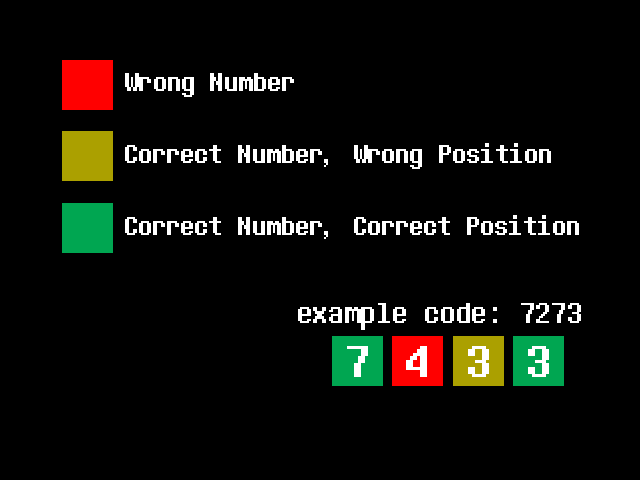
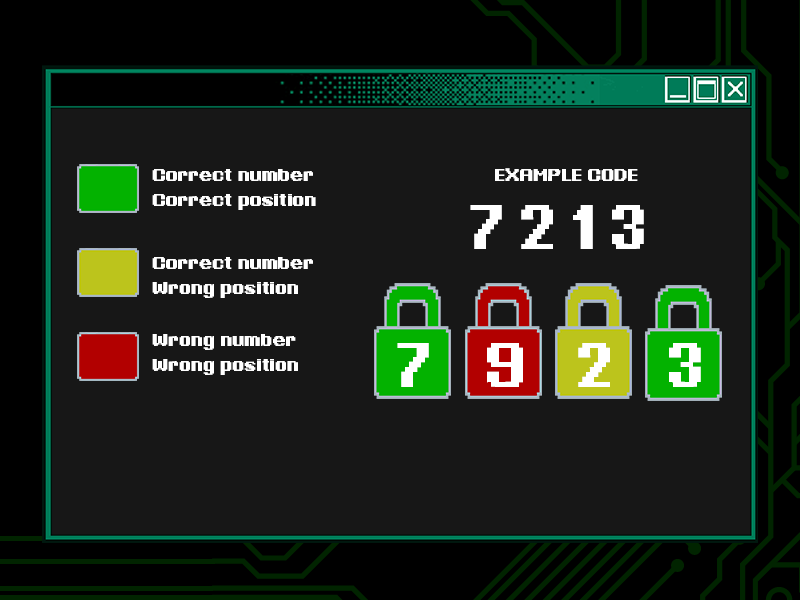
design added

Changed region(s): [[0.0, 0.0, 1.0, 1.0], [0.0938, 0.2812, 0.9062, 0.8125]]

diff --git a/GameScreen/GameScreen.py b/GameScreen/GameScreen.py
@@ -9,55 +9,95 @@ class GameScreen(Frame):
     def __init__(self, parent, controller):
         Frame.__init__(self, parent)
 
-        canvas = Canvas(self, bg="#000000", height=480, width=640, bd=0, highlightthickness=0, relief="ridge")
+        canvas = Canvas(self, bg="#000000", height=600, width=800, bd=0, highlightthickness=0, relief="ridge")
         canvas.place(x=0, y=0)
 
         self.random = Label()
+        print(self.random["text"])
 
         self.characters = ['0', '1', '2', '3', '4', '5', '6', '7', '8', '9']
 
         self.attempts = 0
 
-        self.debug = Label(canvas, text=self.random["text"])
-        self.debug.place(x=10, y=10)
+        self.bg = PhotoImage(file="GameScreen\\assets\\bg.png")
+        canvas.create_image(0, 0, anchor="nw", image=self.bg)
 
         self.createNewRandom()
         
         self.response = Label(canvas, text="", fg="#FF0000", bg="#000000", font=("Determination Mono", 28), justify='center')
-        self.response.place(x=55, y=70)
+        self.response.place(x=55, y=500)
 
+        # locks
+        self.redlock = PhotoImage(file="GameScreen\\assets\\redlock.png")
+        self.greenlock = PhotoImage(file="GameScreen\\assets\\greenlock.png")
+        self.yellowlock = PhotoImage(file="GameScreen\\assets\\yellowlock.png")
+        self.whitelock = PhotoImage(file="GameScreen\\assets\\whitelock.png")
+        
+        self.lock1 = Label(self, image=self.whitelock, borderwidth=0, highlightthickness=0)
+        self.lock1.place(x=147.0, y=203.0)
         self.valid1 = StringVar()
-        self.digit1 = Entry(self, font=("Determination Mono", 90), justify='center', textvariable=self.valid1)
-        self.digit1.place(x=53.0, y=125.0, width=115.0, height=115.0)
+        self.digit1 = Entry(self, font=("Determination Mono", 65), justify='center', textvariable=self.valid1, borderwidth=0, highlightthickness=0, bg="#707070")
+        self.digit1.place(x=165.0, y=263.0, width=78.0, height=78.0)
         self.valid1.trace("w", lambda *args: self.characterCheck(self.valid1, 0))
 
+        self.lock2 = Label(self, image=self.whitelock, borderwidth=0, highlightthickness=0)
+        self.lock2.place(x=283.0, y=203.0)
         self.valid2 = StringVar()
-        self.digit2 = Entry(self, font=("Determination Mono", 90), justify='center', textvariable=self.valid2)
-        self.digit2.place(x=193.0, y=125.0, width=115.0, height=115.0)
+        self.digit2 = Entry(self, font=("Determination Mono", 65), justify='center', textvariable=self.valid2, borderwidth=0, highlightthickness=0, bg="#707070")
+        self.digit2.place(x=303.0, y=263.0, width=78.0, height=78.0)
         self.valid2.trace("w", lambda *args: self.characterCheck(self.valid2, 1))
 
+        self.lock3 = Label(self, image=self.whitelock, borderwidth=0, highlightthickness=0)
+        self.lock3.place(x=420.0, y=203.0)
         self.valid3 = StringVar()
-        self.digit3 = Entry(self, font=("Determination Mono", 90), justify='center', textvariable=self.valid3)
-        self.digit3.place(x=333.0, y=125.0, width=115.0, height=115.0)
+        self.digit3 = Entry(self, font=("Determination Mono", 65), justify='center', textvariable=self.valid3, borderwidth=0, highlightthickness=0, bg="#707070")
+        self.digit3.place(x=441.0, y=263.0, width=78.0, height=78.0)
         self.valid3.trace("w", lambda *args: self.characterCheck(self.valid3, 2))
 
+        self.lock4 = Label(self, image=self.whitelock, borderwidth=0, highlightthickness=0)
+        self.lock4.place(x=556.0, y=203.0)
         self.valid4 = StringVar()
-        self.digit4 = Entry(self, font=("Determination Mono", 90), justify='center', textvariable=self.valid4)
-        self.digit4.place(x=473.0, y=125.0, width=115.0, height=115.0)
+        self.digit4 = Entry(self, font=("Determination Mono", 65), justify='center', textvariable=self.valid4, borderwidth=0, highlightthickness=0, bg="#707070")
+        self.digit4.place(x=574.0, y=263.0, width=78.0, height=78.0)
         self.valid4.trace("w", lambda *args: self.characterCheck(self.valid4, 3))
+
+        # attempt keys
+        self.whitekey = PhotoImage(file="GameScreen\\assets\\whitekey.png")
+        self.yellowkey = PhotoImage(file="GameScreen\\assets\\yellowkey.png")
+
+        self.key1 = Label(self, image=self.whitekey, borderwidth=0, highlightthickness=0)
+        self.key2 = Label(self, image=self.whitekey, borderwidth=0, highlightthickness=0)
+        self.key3 = Label(self, image=self.whitekey, borderwidth=0, highlightthickness=0)
+        self.key4 = Label(self, image=self.whitekey, borderwidth=0, highlightthickness=0)
+        self.key5 = Label(self, image=self.whitekey, borderwidth=0, highlightthickness=0)
+        self.key6 = Label(self, image=self.whitekey, borderwidth=0, highlightthickness=0)
+
+        self.key1.place(x=302.0, y=380.0)
+        self.key2.place(x=340.0, y=380.0)
+        self.key3.place(x=378.0, y=380.0)
+        self.key4.place(x=416.0, y=380.0)
+        self.key5.place(x=454.0, y=380.0)
+        self.key6.place(x=492.0, y=380.0)
+        
+        # history
+        self.before = Label(canvas, text="", fg="#ff0000", bg="#171717", font=("Determination Mono", 34), justify='center')
+        self.before.place(x=554, y=59)
 
         self.imgBtnValidate = PhotoImage(file="GameScreen\\assets\\crack.png")
         self.btnValidate = Button(self, image=self.imgBtnValidate, borderwidth=0, highlightthickness=0, command=lambda: self.validate(), relief="flat")
-        self.btnValidate.place(x=190.0, y=300.0)
+        self.btnValidate.place(x=334.0, y=460.0)
 
         self.imgBtnNew = PhotoImage(file="GameScreen\\assets\\new.png")
         btnNew = Button(self, image=self.imgBtnNew, borderwidth=0, highlightthickness=0, command=lambda: self.newGame(controller.id), relief="flat")
-        btnNew.place(x=15.0, y=440.0)
+        btnNew.place(x=22.0, y=33.0)
 
         self.imgBtnHelp = PhotoImage(file="GameScreen\\assets\\help.png")
         btnHelp = Button(self, image=self.imgBtnHelp, borderwidth=0, highlightthickness=0, command=lambda: controller.show_frame("HelpScreen"), relief="flat")
-        btnHelp.place(x=550.0, y=440.0)
-        return
+        btnHelp.place(x=22.0, y=122.0)
+
+        self.imgBtnHome = PhotoImage(file="GameScreen\\assets\\home.png")
+        btnHome = Button(self, image=self.imgBtnHome, borderwidth=0, highlightthickness=0, command=lambda: controller.show_frame("TitleScreen"), relief="flat")
+        btnHome.place(x=22.0, y=209.0)
     
     def createNewRandom(self):
         stringnumber = list("    ")
@@ -69,57 +109,45 @@ class GameScreen(Frame):
         stringnumber = ''.join(stringnumber)
         
         self.random["text"] = stringnumber
-        self.debug["text"] = self.random["text"]
+        print(self.random["text"])
         return
 
     def validate(self):
-        digit1 = self.digit1.get().lower()
-        digit2 = self.digit2.get().lower()
-        digit3 = self.digit3.get().lower()
-        digit4 = self.digit4.get().lower()
+        boxes = [self.digit1, self.digit2, self.digit3, self.digit4]
+        locks = [self.lock1, self.lock2, self.lock3, self.lock4]
+        keys = [self.key1, self.key2, self.key3, self.key4, self.key5, self.key6]
 
-        self.digit1["bg"] = "red"
-        self.digit2["bg"] = "red"
-        self.digit3["bg"] = "red"
-        self.digit4["bg"] = "red"
+        self.before["text"] = ""
 
-        if digit1 in self.random["text"] and not digit1 == "":
-            self.digit1["bg"] = "yellow"
-        if digit2 in self.random["text"] and not digit2 == "":
-            self.digit2["bg"] = "yellow"
-        if digit3 in self.random["text"] and not digit3 == "":
-            self.digit3["bg"] = "yellow"
-        if digit4 in self.random["text"] and not digit4 == "":
-            self.digit4["bg"] = "yellow"
-        
-        correct = 0
+        for i in range(len(boxes)):
+            getdigit = boxes[i].get().lower()
+            correct = 0
+            self.before["text"] = self.before["text"] + getdigit + " "
+            boxes[i]["bg"] = "#b20000"
+            locks[i]["image"] = self.redlock
 
-        if digit1 == self.random["text"][0]:
-            self.digit1["bg"] = "green"
-            correct += 1
-        if digit2 == self.random["text"][1]:
-            self.digit2["bg"] = "green"
-            correct += 1
-        if digit3 == self.random["text"][2]:
-            self.digit3["bg"] = "green"
-            correct += 1
-        if digit4 == self.random["text"][3]:
-            self.digit4["bg"] = "green"
-            correct += 1
-        # lastinput = digit1 + ... + digit4
-        # textboxlast = lastinput
+            if getdigit in self.random["text"] and not getdigit == "":
+                boxes[i]["bg"] = "#bcc41c"
+                locks[i]["image"] = self.yellowlock
 
+            if getdigit == self.random["text"][i]:
+                boxes[i]["bg"] = "#03b200"
+                locks[i]["image"] = self.greenlock
+                correct += 1
 
         self.clearText()
         self.digit1.focus()
-        # self.debug["text"] = self.random["text"] + " - " + digit1 + digit2 + digit3 + digit4
 
         self.response["text"] = ""
-        self.attempts += 1
+
+        if not self.attempts >= 6:
+            keys[self.attempts]["image"] = self.yellowkey
+            self.attempts += 1
 
         if correct == 4 :
             self.response["text"] = "You cracked the code!"
             return
+
         if self.attempts >= 6:
             self.response["text"] = "You have failed."
 
@@ -140,12 +168,19 @@ class GameScreen(Frame):
         self.digit2.delete(0, END)
         self.digit3.delete(0, END)
         self.digit4.delete(0, END)
+        
     
     def clearColors(self):
-        self.digit1["bg"] = "white"
-        self.digit2["bg"] = "white"
-        self.digit3["bg"] = "white"
-        self.digit4["bg"] = "white"
+        boxes = [self.digit1, self.digit2, self.digit3, self.digit4]
+        locks = [self.lock1, self.lock2, self.lock3, self.lock4]
+        keys = [self.key1, self.key2, self.key3, self.key4, self.key5, self.key6]
+
+        for i in range(len(boxes)):
+            boxes[i]["bg"] = "#707070"
+            locks[i]["image"] = self.whitelock
+
+        for i in range(len(keys)):
+            keys[i]["image"] = self.whitekey
 
     def newGame(self, controller):
         self.clearText()
@@ -154,6 +189,7 @@ class GameScreen(Frame):
         self.response["text"] = "New Number Initiated!"
         self.digit1.focus()
         self.attempts = 0
+        self.before["text"] = ""
 
         if (controller == 0):
             self.characters = ['0', '1', '2', '3', '4', '5', '6', '7', '8', '9']

diff --git a/DifficultyScreen/DifficultyScreen.py b/DifficultyScreen/DifficultyScreen.py
@@ -11,7 +11,7 @@ class DifficultyScreen(Frame):
     def __init__(self, parent, controller):
         Frame.__init__(self, parent)
 
-        canvas = Canvas(self, bg="#000000", height=480, width=640, bd=0, highlightthickness=0, relief="ridge")
+        canvas = Canvas(self, bg="#000000", height=600, width=800, bd=0, highlightthickness=0, relief="ridge")
         canvas.place(x=0, y=0)
 
         # self.btnNormal = Button(self, borderwidth=0, highlightthickness=0,)
@@ -23,12 +23,15 @@ class DifficultyScreen(Frame):
         # self.btnNormal = canvas.create_image(320, 170, image=self.normal)
         # canvas.tag_bind(self.btnNormal, "<Button-1>", controller.show_frame("GameScreen"))
 
+        self.bg = PhotoImage(file="DifficultyScreen\\assets\\bg.png")
+        canvas.create_image(0, 0, anchor="nw", image=self.bg)
+
         self.imgBtnNormal = PhotoImage(file="DifficultyScreen\\assets\\normal.png")
         btnNormal = Button(self, image=self.imgBtnNormal, borderwidth=0, highlightthickness=0, command=lambda: controller.show_frame("GameScreen", 0), relief="flat")
-        btnNormal.place(x=163.0, y=130.0)
+        btnNormal.place(x=194.0, y=430.0)
 
         self.imgBtnHard = PhotoImage(file="DifficultyScreen\\assets\\hard.png")
         btnHard = Button(self, image=self.imgBtnHard, borderwidth=0, highlightthickness=0, command=lambda: controller.show_frame("GameScreen", 1), relief="flat")
-        btnHard.place(x=220.0, y=275.0)
+        btnHard.place(x=451.0, y=430.0)
 
     

diff --git a/TitleScreen/TitleScreen.py b/TitleScreen/TitleScreen.py
@@ -13,15 +13,15 @@ class TitleScreen(Frame):
         pygame.mixer.music.load("TitleScreen\\assets\\mus.ogg")
         pygame.mixer.music.play(loops=-1)
 
-        canvas = Canvas(self, bg="#000000", height=480, width=640, bd=0, highlightthickness=0, relief="ridge")
+        canvas = Canvas(self, bg="#000000", height=600, width=800, bd=0, highlightthickness=0, relief="ridge")
         canvas.place(x=0, y=0)
 
-        self.title = PhotoImage(file="TitleScreen\\assets\\title.png")
-        canvas.create_image(320.0, 150.0, image=self.title)
+        self.bg = PhotoImage(file="TitleScreen\\assets\\bg.png")
+        canvas.create_image(0, 0, anchor="nw", image=self.bg)
 
-        self.imgBtnStart = PhotoImage(file="TitleScreen\\assets\\start.png")
+        self.imgBtnStart = PhotoImage(file="TitleScreen\\assets\\startbutton.png")
         btnStart = Button(self, image=self.imgBtnStart, borderwidth=0, highlightthickness=0, command=lambda: self.changeFrame(controller), relief="flat")
-        btnStart.place(x=190.0, y=300.0)
+        btnStart.place(x=245.0, y=222.0)
 
         # btnChange = Button(self, text="Change", command=lambda: controller.show_frame("GameScreen"), relief="flat")
         # btnChange.place(x=200.0, y=100.0, width=100.0, height=45.0)

diff --git a/HelpScreen/HelpScreen.py b/HelpScreen/HelpScreen.py
@@ -8,7 +8,7 @@ class HelpScreen(Frame):
     def __init__(self, parent, controller):
         Frame.__init__(self, parent)
 
-        canvas = Canvas(self, bg="#000000", height=480, width=640, bd=0, highlightthickness=0, relief="ridge")
+        canvas = Canvas(self, bg="#000000", height=600, width=800, bd=0, highlightthickness=0, relief="ridge")
         canvas.place(x=0, y=0)
 
         self.instructions = PhotoImage(file="HelpScreen\\assets\\instructions.png")
@@ -16,6 +16,6 @@ class HelpScreen(Frame):
 
         self.imgBtnBack = PhotoImage(file="HelpScreen\\assets\\back.png")
         btnBack = Button(self, image=self.imgBtnBack, borderwidth=0, highlightthickness=0, command=lambda: controller.show_frame("GameScreen"), relief="flat")
-        btnBack.place(x=15.0, y=440.0)
+        btnBack.place(x=334.0, y=456.0)
 
         

diff --git a/Main.py b/Main.py
@@ -37,8 +37,8 @@ window = MainFrame()
 screenwidth = window.winfo_screenwidth()
 screenheight = window.winfo_screenheight()
 
-windowwidth = 640  #change by 800
-windowheight = 480 #change by 600
+windowwidth = 800  #change by 800
+windowheight = 600 #change by 600
 
 x = (screenwidth/2) - windowwidth/2
 y = (screenheight/2) - windowheight/2
